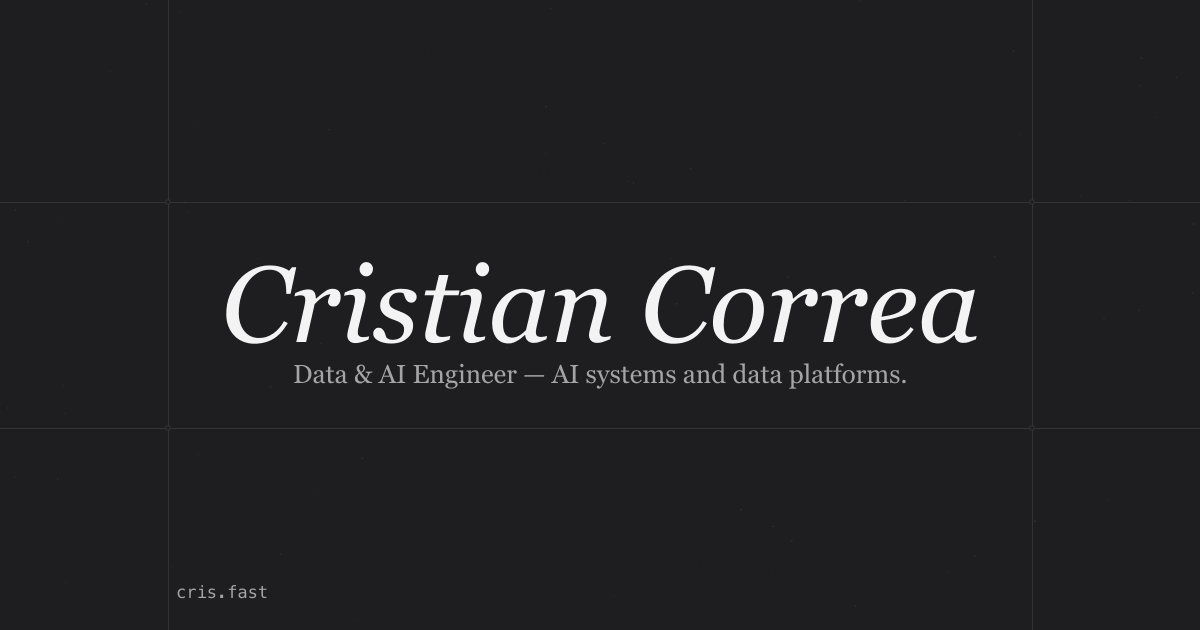
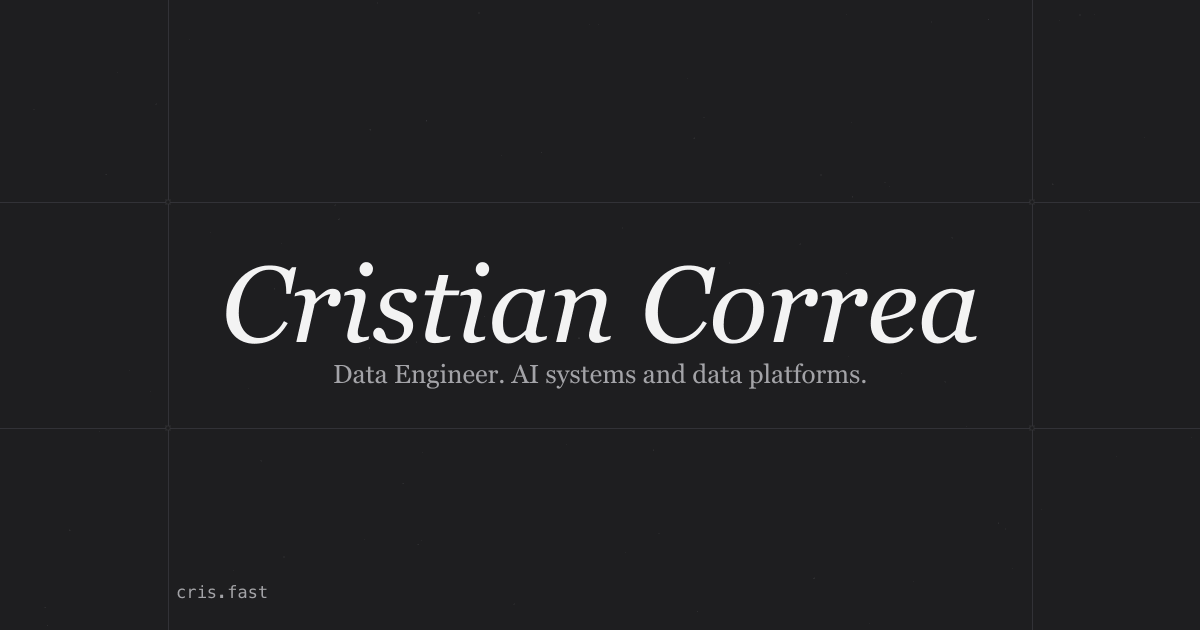
style(copy): retitle Data & AI Engineer to Data Engineer

Changed region(s): [[0.2467, 0.573, 0.74, 0.6333]]

diff --git a/app/layout.tsx b/app/layout.tsx
@@ -24,16 +24,15 @@ const geistMono = Geist_Mono({
 export const metadata: Metadata = {
   metadataBase: new URL("https://cris.fast"),
   title: {
-    default: "Cristian Correa, Data & AI Engineer",
+    default: "Cristian Correa, Data Engineer",
     template: "%s, Cristian Correa",
   },
   description:
-    "Cristian Correa (Cris), Data & AI Engineer from Bogotá, Colombia. Creator of Kebo. Building production AI systems and data platforms.",
+    "Cristian Correa (Cris), Data Engineer from Bogotá, Colombia. Creator of Kebo. Building production AI systems and data platforms.",
   keywords: [
     "Cristian Correa",
     "Cris Correa",
     "Data Engineer",
-    "AI Engineer",
     "Kebo",
     "Crafter Station",
     "Bogotá",
@@ -49,9 +48,9 @@ export const metadata: Metadata = {
     canonical: "https://cris.fast",
   },
   openGraph: {
-    title: "Cristian Correa, Data & AI Engineer",
+    title: "Cristian Correa, Data Engineer",
     description:
-      "Data & AI Engineer from Bogotá, Colombia. Creator of Kebo. Building production AI systems and data platforms.",
+      "Data Engineer from Bogotá, Colombia. Creator of Kebo. Building production AI systems and data platforms.",
     url: "https://cris.fast",
     siteName: "cris.fast",
     images: [{ url: "/og.png", width: 1200, height: 630, alt: "Cristian Correa" }],
@@ -60,9 +59,9 @@ export const metadata: Metadata = {
   },
   twitter: {
     card: "summary_large_image",
-    title: "Cristian Correa, Data & AI Engineer",
+    title: "Cristian Correa, Data Engineer",
     description:
-      "Data & AI Engineer from Bogotá, Colombia. Creator of Kebo.",
+      "Data Engineer from Bogotá, Colombia. Creator of Kebo.",
     images: ["/og-twitter.png"],
     creator: "@camilocbarrera",
   },
@@ -88,7 +87,7 @@ const personJsonLd = {
   alternateName: ["Cris Correa", "Cris"],
   url: "https://cris.fast",
   image: "https://cris.fast/og.png",
-  jobTitle: "Data & AI Engineer",
+  jobTitle: "Data Engineer",
   description:
     "Statistician and software engineer building production AI systems and data platforms. Creator of Kebo.",
   address: {

diff --git a/app/page.tsx b/app/page.tsx
@@ -103,7 +103,7 @@ export default function Page() {
             Cristian Correa
           </h1>
           <p className="mt-4 text-base text-muted-foreground text-pretty md:text-lg">
-            Data &amp; AI Engineer shipping production AI systems and data platforms.
+            Data Engineer shipping production AI systems and data platforms.
           </p>
           <div className="mt-6">
             <SocialLinks />
